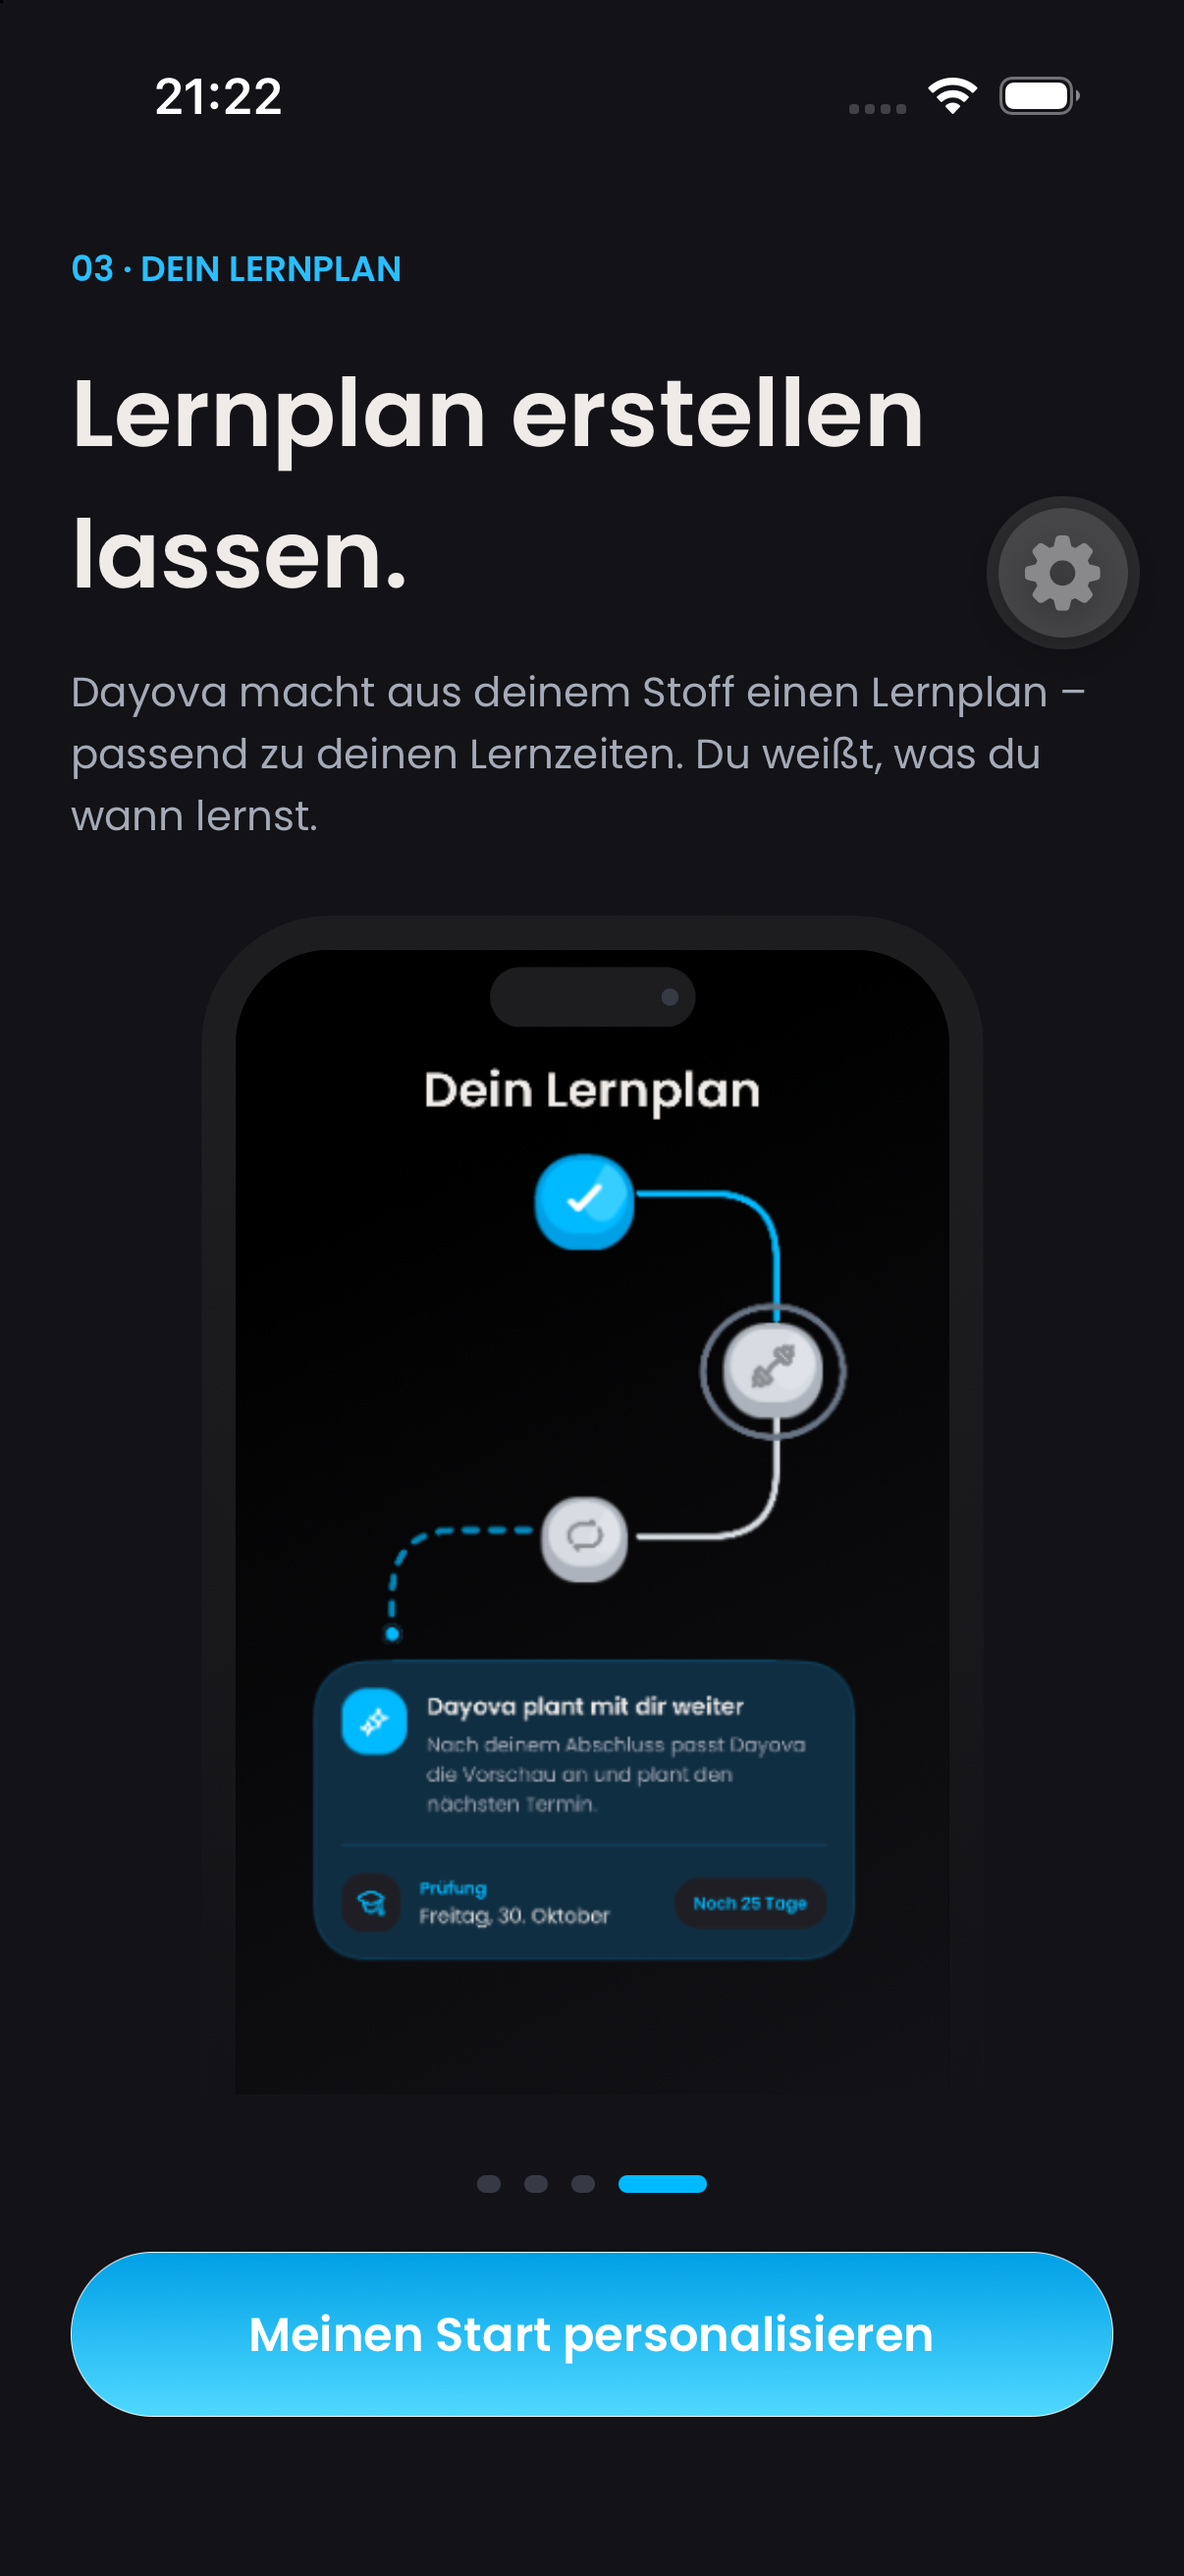
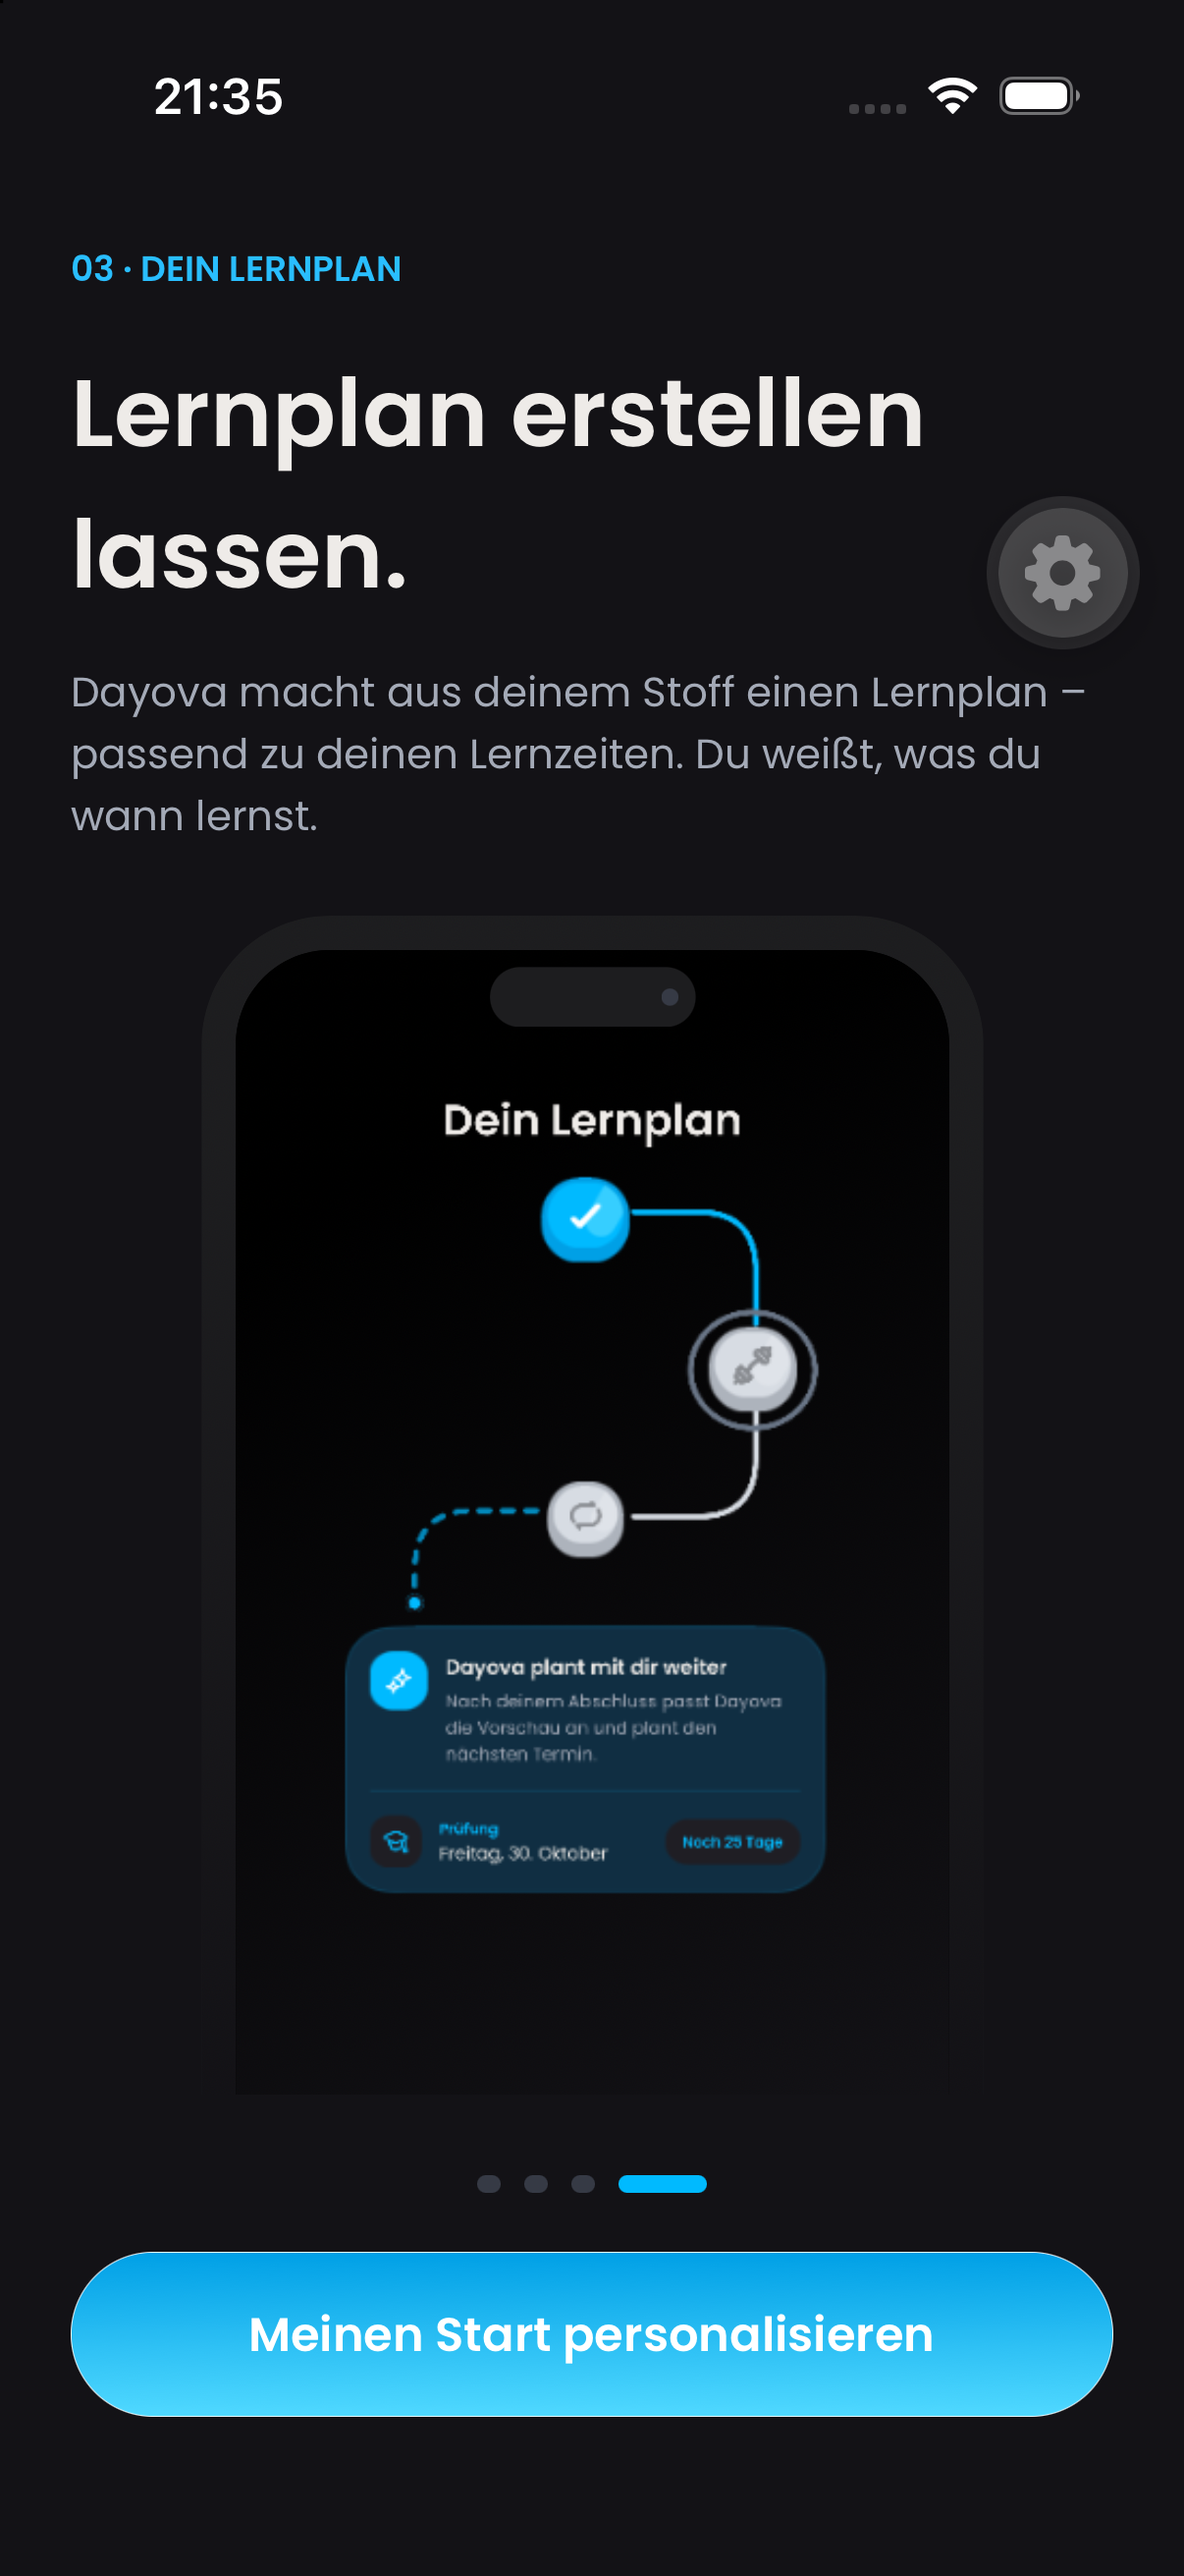
design: use current agenda entries and increase preview insets

Changed region(s): [[0.2454, 0.4016, 0.7363, 0.7723], [0.1841, 0.0309, 0.2454, 0.0618]]

diff --git a/src/features/dashboard/compact-day-agenda.tsx b/src/features/dashboard/compact-day-agenda.tsx
@@ -13,13 +13,15 @@ import {
 } from "./dashboard-agenda";
 
 /** Displays an entry with completion derived from its explicit state, not elapsed time. */
-function AgendaRow({
+export function AgendaRow({
 	item,
 	onOpenItem,
-}: {
-	item: DashboardAgendaItem;
-	onOpenItem: (item: DashboardAgendaItem) => void;
-}) {
+	mode = "screen",
+}: { item: DashboardAgendaItem } & (
+	| { mode?: "screen"; onOpenItem: (item: DashboardAgendaItem) => void }
+	| { mode: "artwork"; onOpenItem?: never }
+)) {
+	const isArtwork = mode === "artwork";
 	const { colors } = useDayovaTheme();
 	const { shouldStackInlineContent } = useContentSizeLayout();
 	const subject = formatGermanUiText(item.entry.subject ?? "").trim();
@@ -87,14 +89,16 @@ function AgendaRow({
 			<View className="min-w-0 flex-1 gap-1">
 				<Text
 					className="font-poppins font-semibold text-body-3 text-text"
-					numberOfLines={shouldStackInlineContent ? undefined : 1}
+					allowFontScaling={!isArtwork}
+					numberOfLines={!isArtwork && shouldStackInlineContent ? undefined : 1}
 					ellipsizeMode="tail"
 				>
 					{[subject, topic].filter(Boolean).join(" · ")}
 				</Text>
 				<Text
 					className="font-poppins text-body-4 text-secondary-text"
-					numberOfLines={shouldStackInlineContent ? undefined : 1}
+					allowFontScaling={!isArtwork}
+					numberOfLines={!isArtwork && shouldStackInlineContent ? undefined : 1}
 					ellipsizeMode="tail"
 				>
 					{metadata}
@@ -126,6 +130,19 @@ function AgendaRow({
 		</View>
 	);
 	const className = "border border-border bg-card px-4 py-3";
+	if (isArtwork) {
+		return (
+			<Surface
+				className={className}
+				accessible={false}
+				accessibilityElementsHidden
+				importantForAccessibility="no-hide-descendants"
+				pointerEvents="none"
+			>
+				{content}
+			</Surface>
+		);
+	}
 	return item.kind === "schoolLesson" ? (
 		<Surface className={className} accessible accessibilityLabel={label}>
 			{content}
@@ -141,7 +158,7 @@ function AgendaRow({
 					? "Öffnet den zugehörigen Lernplan."
 					: "Öffnet diesen Eintrag."
 			}
-			onPress={() => onOpenItem(item)}
+			onPress={() => onOpenItem?.(item)}
 		>
 			{content}
 		</ActionSurface>

diff --git a/src/components/onboarding/intro-calendar-artwork.tsx b/src/components/onboarding/intro-calendar-artwork.tsx
@@ -2,8 +2,8 @@ import { View } from "react-native";
 import type { Id } from "#convex/_generated/dataModel";
 import { Plus } from "~/components/ui/icon";
 import { Text } from "~/components/ui/text";
+import { AgendaRow } from "~/features/dashboard/compact-day-agenda";
 import { toDashboardAgendaItem } from "~/features/dashboard/dashboard-agenda";
-import { DashboardAgendaEntryCard } from "~/features/dashboard/dashboard-product-cards";
 import {
 	CalendarWeekdays,
 	WeekCalendar,
@@ -15,7 +15,8 @@ const day = "2026-10-05";
 const entries = [
 	{
 		id: "intro-math" as Id<"dayEntries">,
-		title: "Mathe lernen",
+		title: "Mathematik üben",
+		subject: "Mathematik",
 		kind: "Aufgabe",
 		time: "16:00",
 		durationMinutes: 30,
@@ -24,6 +25,7 @@ const entries = [
 	{
 		id: "intro-english" as Id<"dayEntries">,
 		title: "Englisch wiederholen",
+		subject: "Englisch",
 		kind: "Aufgabe",
 		time: "17:00",
 		durationMinutes: 20,
@@ -75,12 +77,11 @@ export function IntroCalendarArtwork({
 			</Text>
 			<View className="gap-3">
 				{entries.map((entry) => (
-					<View key={entry.id} className="h-[100px]">
-						<DashboardAgendaEntryCard
-							mode="artwork"
-							item={toDashboardAgendaItem(day, entry)}
-						/>
-					</View>
+					<AgendaRow
+						key={entry.id}
+						mode="artwork"
+						item={toDashboardAgendaItem(day, entry)}
+					/>
 				))}
 			</View>
 		</IntroPhoneFrame>

diff --git a/src/features/dashboard/compact-day-agenda.ui.test.tsx b/src/features/dashboard/compact-day-agenda.ui.test.tsx
@@ -1,7 +1,7 @@
 import { describe, expect, jest, test } from "@jest/globals";
 import { fireEvent, render } from "@testing-library/react-native";
 import type { Id } from "#convex/_generated/dataModel";
-import { CompactDayAgenda } from "./compact-day-agenda";
+import { AgendaRow, CompactDayAgenda } from "./compact-day-agenda";
 import { toDashboardAgendaItem } from "./dashboard-agenda";
 
 jest.mock("~/components/ui/icon", () => ({
@@ -28,6 +28,20 @@ const item = toDashboardAgendaItem("2026-09-01", {
 });
 
 describe("CompactDayAgenda", () => {
+	test("renders the same entry as decorative artwork without an action", async () => {
+		const screen = await render(<AgendaRow mode="artwork" item={item} />);
+		expect(
+			screen.queryByRole("button", { includeHiddenElements: true }),
+		).toBeNull();
+		expect(
+			screen.getByText("Mathematik · Gleichungen lösen", {
+				includeHiddenElements: true,
+			}).props.allowFontScaling,
+		).toBe(false);
+		expect(
+			screen.getByText("17:00 · 17 min", { includeHiddenElements: true }),
+		).toBeTruthy();
+	});
 	test("shows subject, topic and metadata and opens the entry", async () => {
 		const open = jest.fn();
 		const screen = await render(

diff --git a/src/components/onboarding/intro-phone-frame.tsx b/src/components/onboarding/intro-phone-frame.tsx
@@ -54,12 +54,12 @@ export function IntroPhoneFrame({
 				>
 					<View className="h-2 w-2 rounded-full bg-border" />
 				</View>
-				<View className="flex-1 items-center overflow-hidden px-10 pt-16 pb-6">
+				<View className="flex-1 items-center overflow-hidden px-14 pt-20 pb-6">
 					<View
 						className="w-[301px]"
 						// Preserve the product layout while adding breathing room inside the device.
 						style={{
-							transform: [{ scale: 285 / 301 }],
+							transform: [{ scale: 253 / 301 }],
 							transformOrigin: "top center",
 						}}
 					>

diff --git a/docs/contexts/design-system/adr/onboarding-artwork-rendering.md b/docs/contexts/design-system/adr/onboarding-artwork-rendering.md
@@ -126,5 +126,9 @@ module and must include fresh native evidence; a copied card, Figma export, or
 onboarding-only SVG is not a valid reversal.
 
 The intro device retains the reference's slim 365 × 550 artboard. Its product
-content keeps its original layout width and is uniformly inset to leave 24px
+content keeps its original layout width and is uniformly inset to leave 40px
 between the content and the inner screen edge, rather than widening the phone.
+
+The calendar intro uses the current compact AgendaRow in decorative mode, sharing
+subject icons, title, time metadata, and status affordances with the Today page.
+An 80px top inset separates preview content from the camera island.
